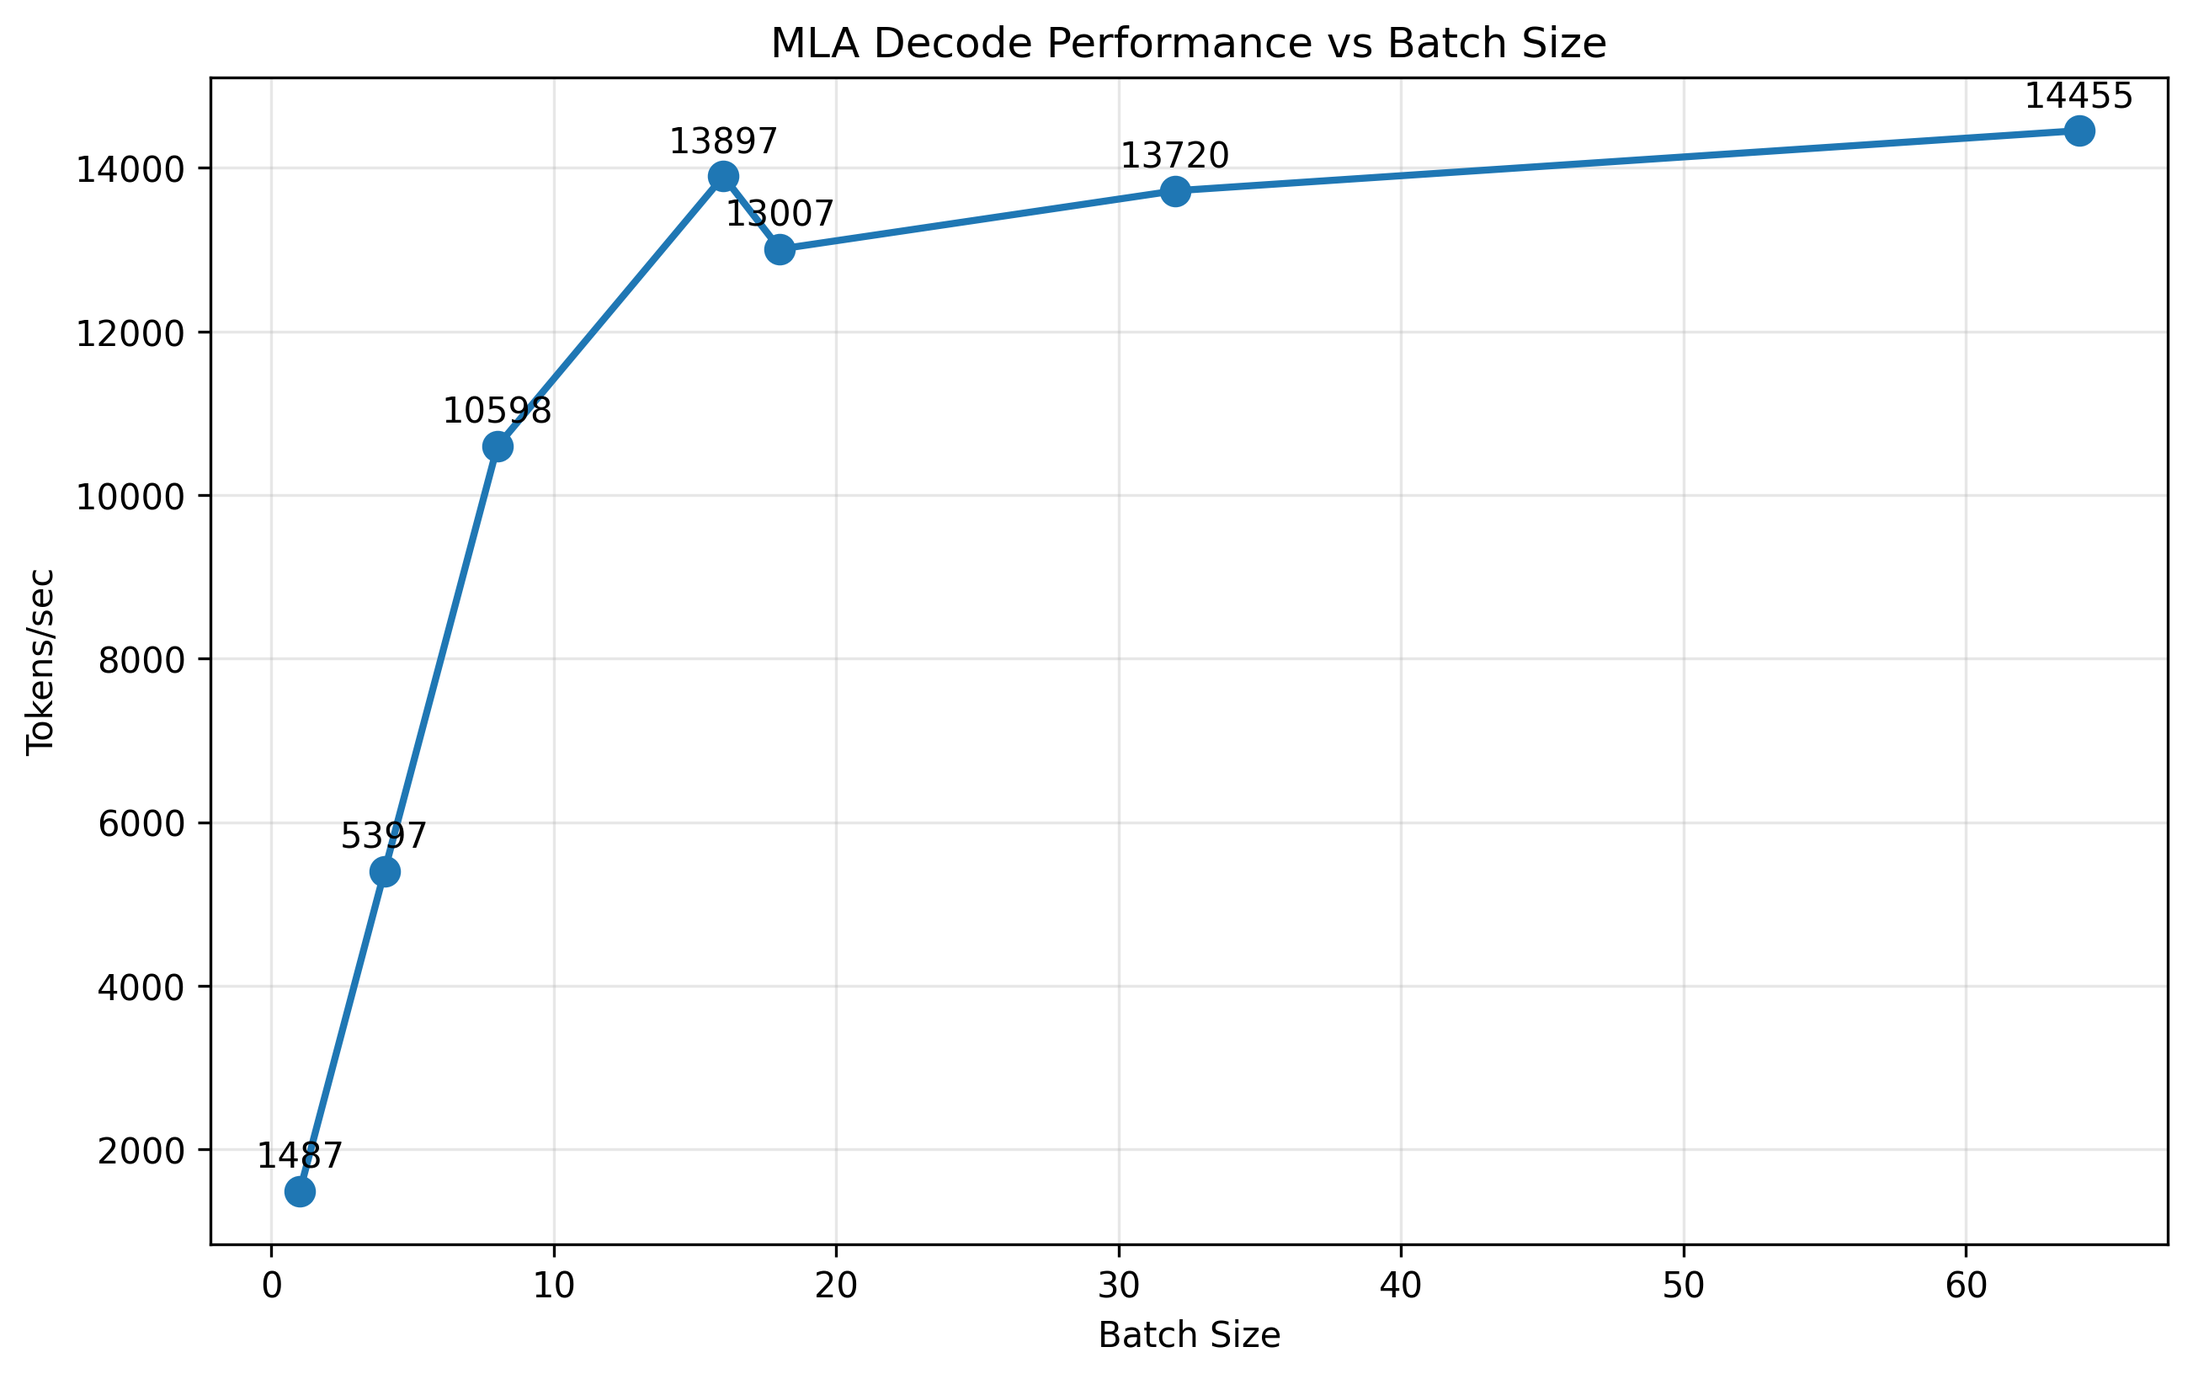
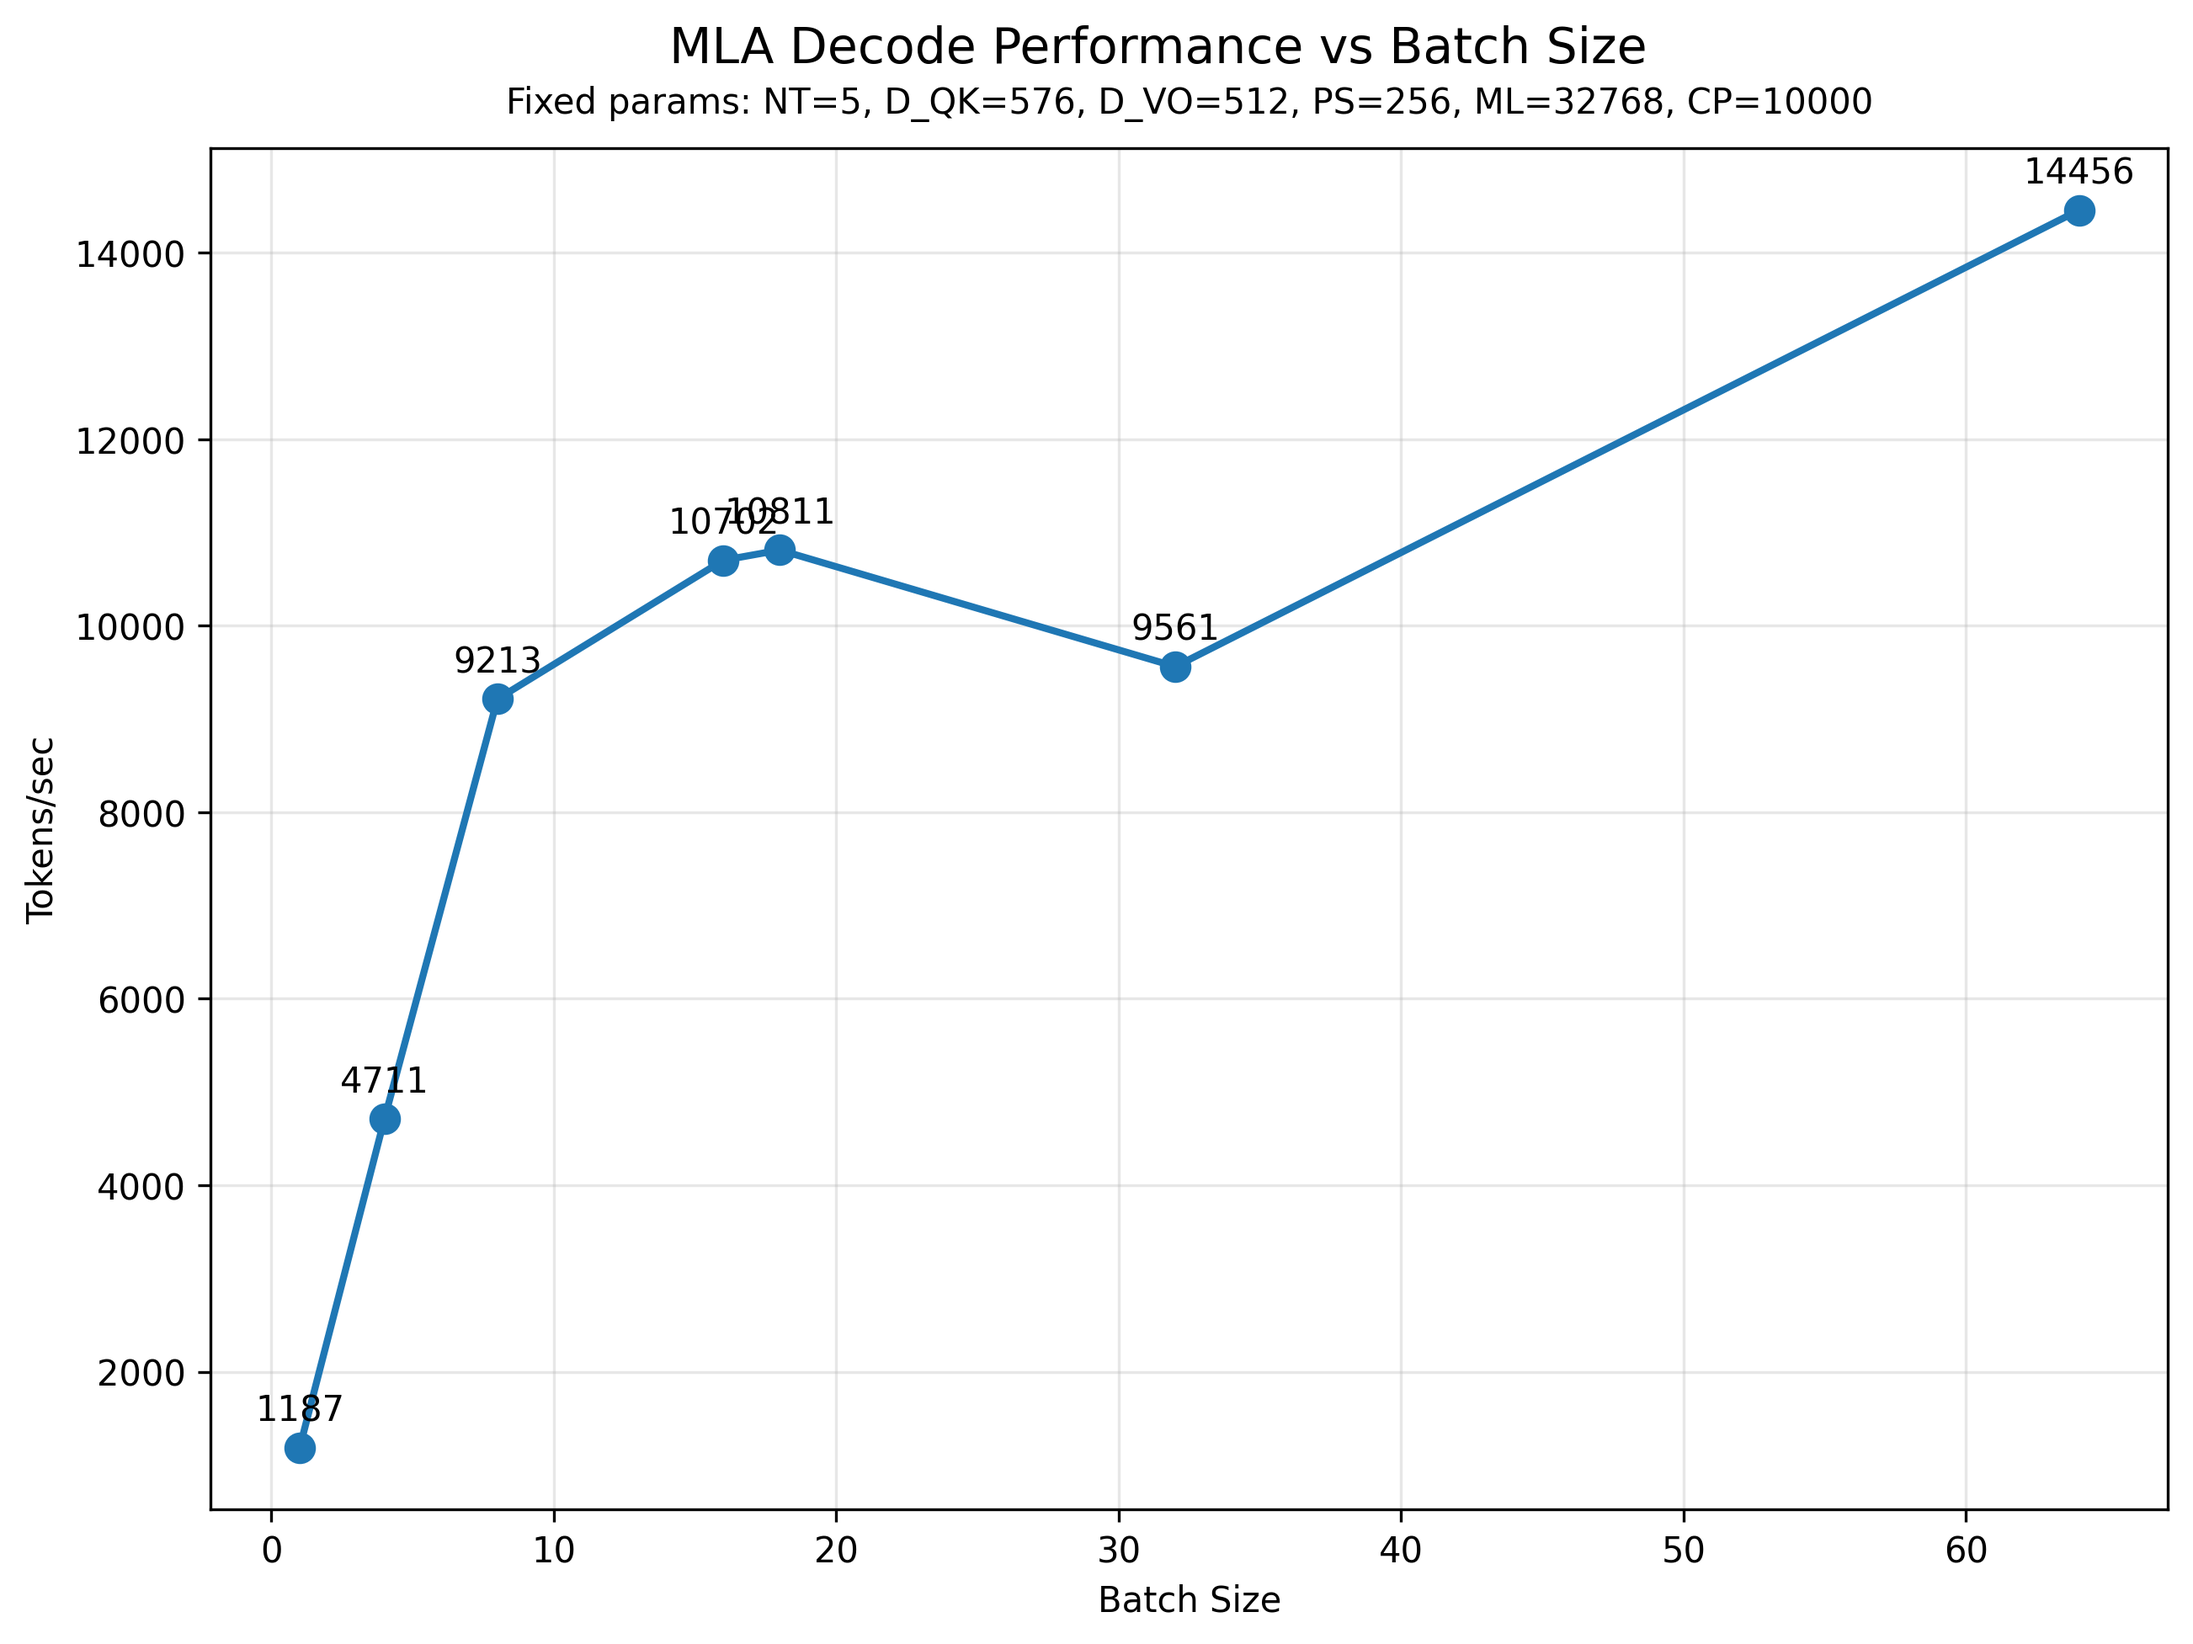
bench

diff --git a/kernels/attn/demo/mla_decode/bench.py b/kernels/attn/demo/mla_decode/bench.py
@@ -62,14 +62,18 @@ def run_benchmark(config: BenchConfig, num_warmup: int = 5, num_trials: int = 10
     
     return tokens_per_sec, avg_latency_us
 
-def plot_results(x_values, y_values, x_label, title, output_path):
-    plt.figure(figsize=(10, 6))
+def plot_results(x_values, y_values, x_label, title, subtitle, output_path):
+    plt.figure(figsize=(10, 7))  # Made taller to accommodate subtitle
     plt.plot(x_values, y_values, 'o-', linewidth=2, markersize=8)
     plt.grid(True, alpha=0.3)
     plt.xlabel(x_label)
     plt.ylabel('Tokens/sec')
-    plt.title(title)
     
+    # Main title and subtitle
+    plt.suptitle(title, fontsize=14, y=0.95)
+    plt.title(subtitle, fontsize=10, pad=10)
+    
+    # Add value labels above each point
     for x, y in zip(x_values, y_values):
         plt.text(x, y + (max(y_values) * 0.02), f'{y:.0f}', ha='center')
     
@@ -79,11 +83,11 @@ def plot_results(x_values, y_values, x_label, title, output_path):
 def generate_configs():
     """Generate different configurations to benchmark"""
     configs = []
-    batch_sizes = [1, 4, 8, 16, 18, 32, 64] 
-    new_tokens = [1, 5, 8, 16, 32] 
-    cache_pages = [1000, 5000, 10000, 20000, 50000]
+    batch_sizes = [1, 4, 8, 16, 18, 32, 64]  # Include base config in sequence
+    new_tokens = [1, 5, 8, 16, 32]  # Include base config in sequence
+    cache_pages = [1000, 5000, 10000, 20000, 50000]  # Include base config in sequence
     
-    # base 
+    # base configuration
     base_config = BenchConfig(
         batch_size=18,
         new_tokens=5,
@@ -94,7 +98,7 @@ def generate_configs():
         cache_pages=10000
     )
     
-    # batch size configs
+    # Generate batch size configs
     batch_configs = [BenchConfig(
         batch_size=b,
         new_tokens=base_config.new_tokens,
@@ -105,7 +109,7 @@ def generate_configs():
         cache_pages=base_config.cache_pages
     ) for b in batch_sizes]
     
-    # new tokens configs
+    # Generate new tokens configs
     token_configs = [BenchConfig(
         batch_size=base_config.batch_size,
         new_tokens=t,
@@ -116,7 +120,7 @@ def generate_configs():
         cache_pages=base_config.cache_pages
     ) for t in new_tokens]
     
-    # cache pages configs
+    # Generate cache pages configs
     cache_configs = [BenchConfig(
         batch_size=base_config.batch_size,
         new_tokens=base_config.new_tokens,
@@ -137,12 +141,13 @@ def main():
     print("Starting MLA Decode Kernel Benchmark")
     print("-" * 80)
     
+    # Create output directory
     os.makedirs('tk_benchmarks', exist_ok=True)
     
     configs = generate_configs()
     results = {}
     
-    # benchmarks and collect results
+    # Run benchmarks and collect results
     for param_name, (x_values, param_configs) in configs.items():
         print(f"\nBenchmarking {param_name} variations")
         throughputs = []
@@ -160,22 +165,30 @@ def main():
         
         results[param_name] = (x_values, throughputs)
     
-    # plots
+    base_config = configs['batch'][1][0]  # Get base config for reference
+    
+    # Generate plots with configuration subtitles
     plot_results(
         results['batch'][0], results['batch'][1],
         'Batch Size', 'MLA Decode Performance vs Batch Size',
+        f'Fixed params: NT={base_config.new_tokens}, D_QK={base_config.d_qk}, D_VO={base_config.d_vo}, '
+        f'PS={base_config.page_size}, ML={base_config.max_length}, CP={base_config.cache_pages}',
         'tk_benchmarks/batch_size_perf.png'
     )
     
     plot_results(
         results['tokens'][0], results['tokens'][1],
         'New Tokens', 'MLA Decode Performance vs New Tokens',
+        f'Fixed params: B={base_config.batch_size}, D_QK={base_config.d_qk}, D_VO={base_config.d_vo}, '
+        f'PS={base_config.page_size}, ML={base_config.max_length}, CP={base_config.cache_pages}',
         'tk_benchmarks/new_tokens_perf.png'
     )
     
     plot_results(
         results['cache'][0], results['cache'][1],
         'Cache Pages', 'MLA Decode Performance vs Cache Pages',
+        f'Fixed params: B={base_config.batch_size}, NT={base_config.new_tokens}, D_QK={base_config.d_qk}, '
+        f'D_VO={base_config.d_vo}, PS={base_config.page_size}, ML={base_config.max_length}',
         'tk_benchmarks/cache_pages_perf.png'
     )
 
